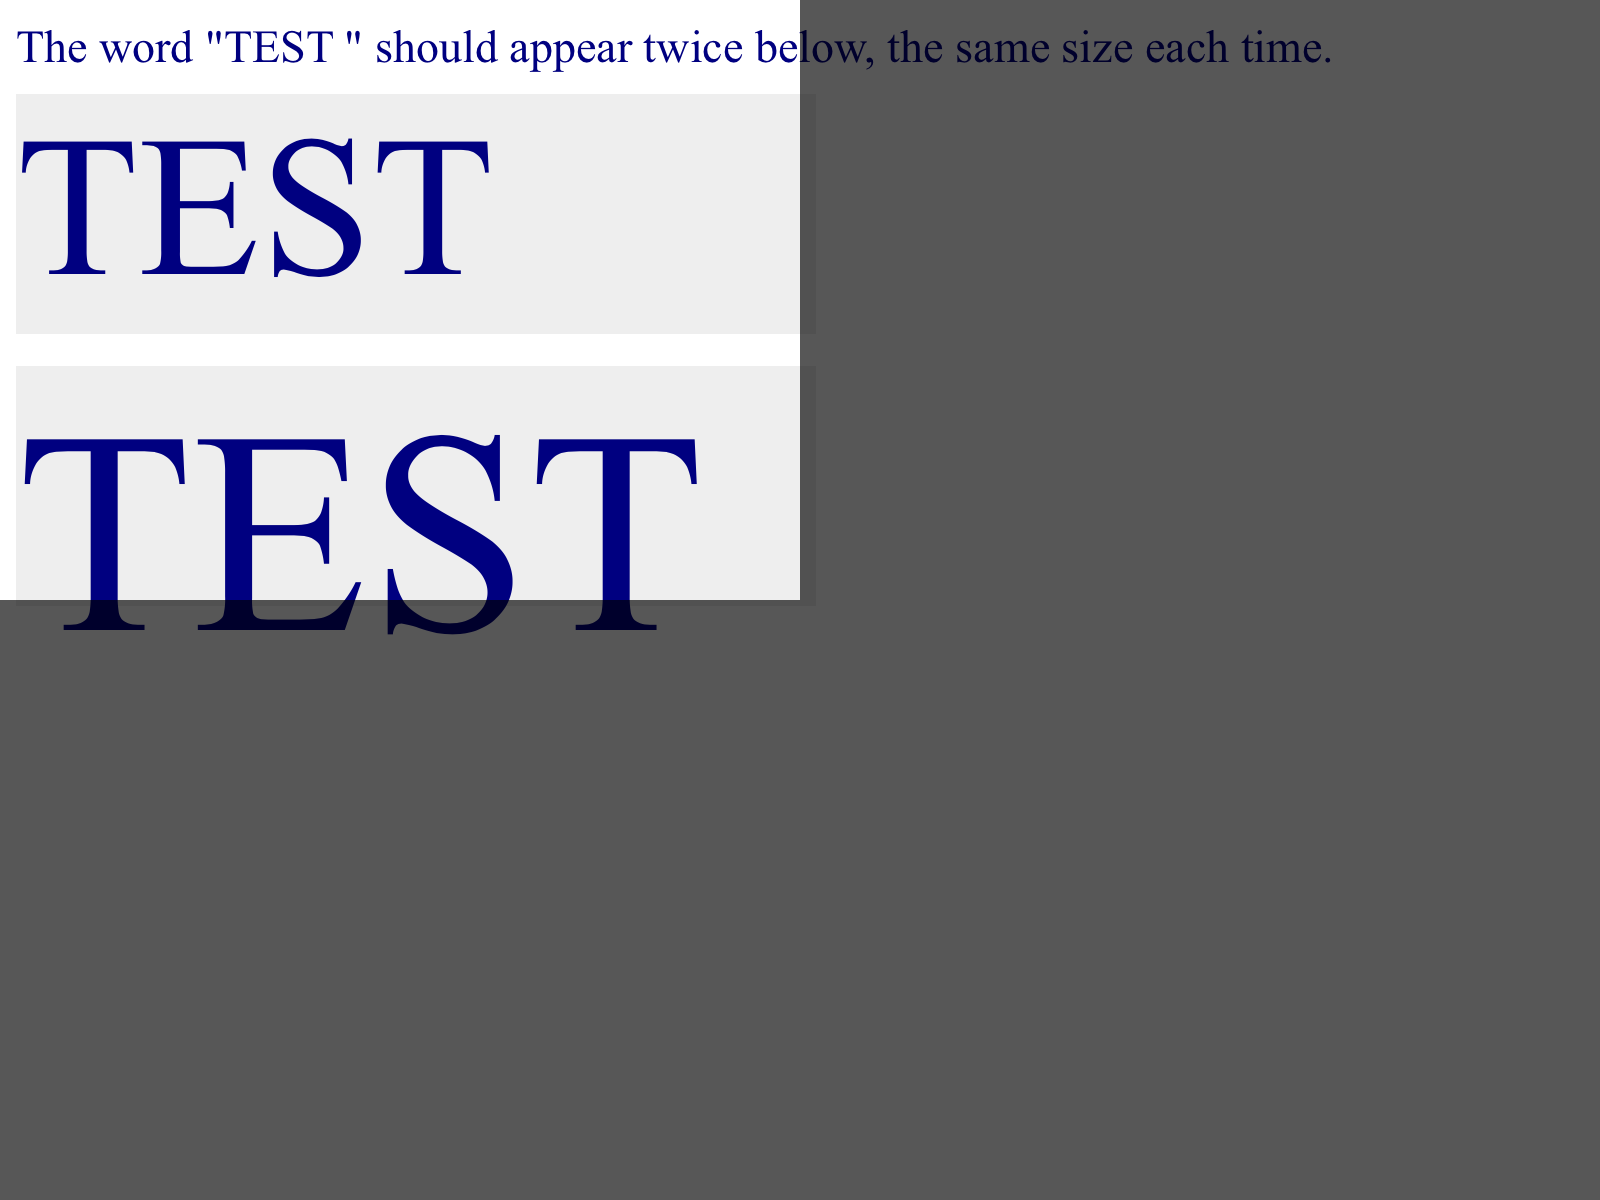
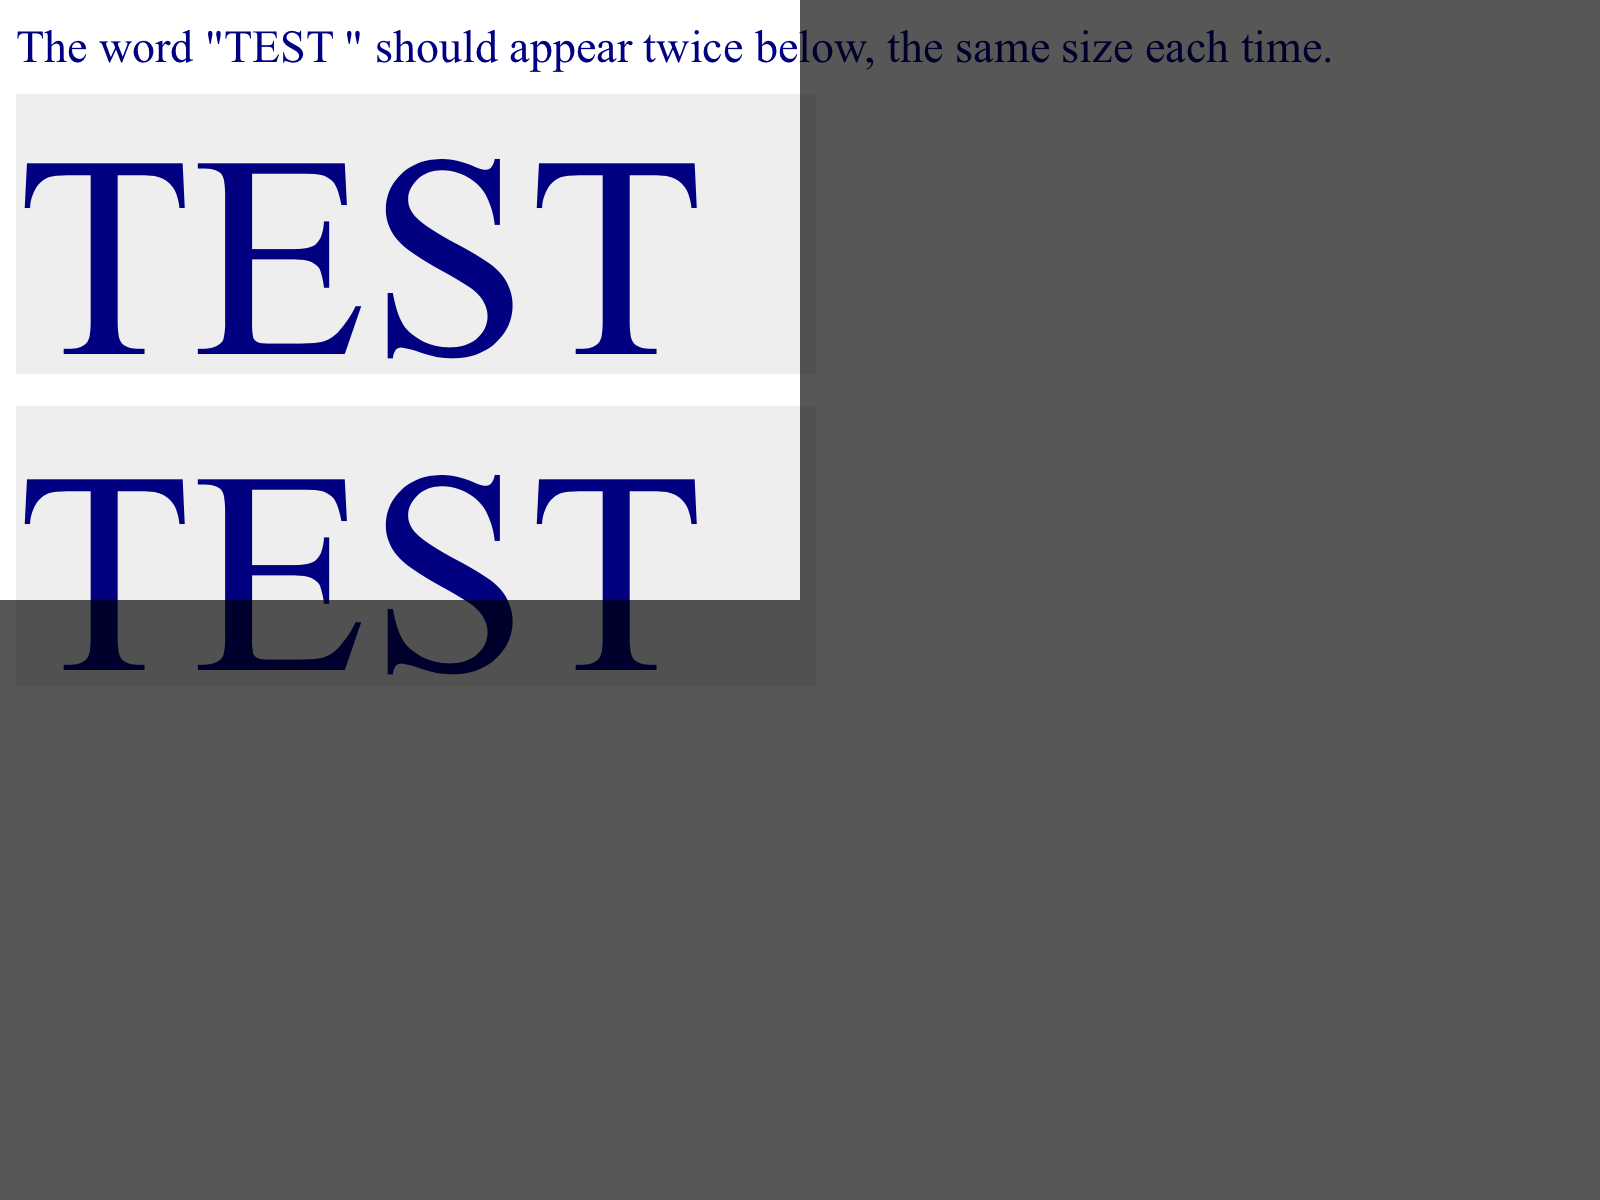
font-relative units of svg elements don't take zoom factors into account https://bugs.webkit.org/show_bug.cgi?id=199236
Reviewed by Simon Fraser.

WebKit handles zoom factor (zoom property and page zoom) differently
for SVG. WebKit multiplies internal computed CSS length values by zoom
factors for HTML elements, but for SVG elements. WebKit scales SVG
differently for zooming. Thus, internal computed font-size is zoomed
for HTML elements, but unzoomed for a SVG elements.

However, CSS length values of the root SVG element of included SVG
documents should be zoomed. font-relative units of the svg elements
didn't take zoom factor into account because font-size of them were
unzoomed. It should be zoomed.

There was another problem. Assume there was a compound HTML document
included a SVG document that included another HTML document, and
font-size property was specified to a HTML element of the outer HTML
document, and a zoom factor was applied. The computed font-size of the
HTML element was zoomed. If it was inherited to elements of the inner
HTML document, the font size of the inner HTML was zoomed twice.

font-size property should be resolved at root elements of included
documents.

Before this change, WebKit inconsitently scales texts in HTML in SVG
for text zoom. If a font-size property was specified to a element of
parent SVG document, it was unzoomed. If it was specified to a element
of inner HTML document, it was zoomed. After this change, WebKit
consitetly scales texts in HTML for text zoom even if the HTML is
included in SVG and font-size property is inherited from the parent
[…]

diff --git a/LayoutTests/svg/zoom/page/zoom-foreignObject-2.html b/LayoutTests/svg/zoom/page/zoom-foreignObject-2.html
@@ -1,0 +1,29 @@
+<!DOCTYPE html>
+<html>
+  <style>
+    :root {
+        zoom: 4;
+        font-size: 16px;
+    }
+  </style>
+  <svg width="50" height="25">
+    <foreignObject width="50" height="25">
+      <div>TEST</div>
+    </foreignObject>
+  </svg>
+  <svg width="50" height="25">
+    <foreignObject width="50" height="25">
+      <div style="font-size:16px">TEST</div>
+    </foreignObject>
+  </svg>
+  <svg width="50" height="25">
+    <foreignObject width="50" height="25">
+      <div style="font-size:inherit">TEST</div>
+    </foreignObject>
+  </svg>
+  <svg width="50" height="25" style="font-size:inherit">
+    <foreignObject width="50" height="25">
+      <div>TEST</div>
+    </foreignObject>
+  </svg>
+</html>

diff --git a/LayoutTests/svg/zoom/page/zoom-foreignObject-2-expected.html b/LayoutTests/svg/zoom/page/zoom-foreignObject-2-expected.html
@@ -1,0 +1,29 @@
+<!DOCTYPE html>
+<html>
+  <style>
+    :root {
+        zoom: 4;
+        font-size: 16px;
+    }
+  </style>
+  <svg width="50" height="25">
+    <foreignObject width="50" height="25">
+      <div>TEST</div>
+    </foreignObject>
+  </svg>
+  <svg width="50" height="25">
+    <foreignObject width="50" height="25">
+      <div>TEST</div>
+    </foreignObject>
+  </svg>
+  <svg width="50" height="25">
+    <foreignObject width="50" height="25">
+      <div>TEST</div>
+    </foreignObject>
+  </svg>
+  <svg width="50" height="25">
+    <foreignObject width="50" height="25">
+      <div>TEST</div>
+    </foreignObject>
+  </svg>
+</html>

diff --git a/LayoutTests/svg/zoom/page/em-and-font-size.html b/LayoutTests/svg/zoom/page/em-and-font-size.html
@@ -1,0 +1,19 @@
+<!DOCTYPE html>
+<style>
+  :root {
+      zoom: 5;
+      font-size: 16px;
+  }
+</style>
+
+<svg  viewBox="0 0 1 1" style="font-size:inherit;height:1em;">
+  <rect width="1" height="1"></rect>
+</svg>
+
+<svg  viewBox="0 0 1 1" style="font-size:100%;height:1em;">
+  <rect width="1" height="1"></rect>
+</svg>
+
+<svg  viewBox="0 0 1 1" style="height:1em;">
+  <rect width="1" height="1"></rect>
+</svg>

diff --git a/LayoutTests/svg/zoom/page/em-and-font-size-expected.html b/LayoutTests/svg/zoom/page/em-and-font-size-expected.html
@@ -1,0 +1,18 @@
+<!DOCTYPE html>
+<style>
+  :root {
+      zoom: 5;
+  }
+</style>
+
+<svg  viewBox="0 0 1 1" style="height:16px">
+  <rect width="1" height="1"></rect>
+</svg>
+
+<svg  viewBox="0 0 1 1" style="height:16px">
+  <rect width="1" height="1"></rect>
+</svg>
+
+<svg  viewBox="0 0 1 1" style="height:16px">
+  <rect width="1" height="1"></rect>
+</svg>

diff --git a/Source/WebCore/css/svg.css b/Source/WebCore/css/svg.css
@@ -94,3 +94,9 @@ text, tspan, tref {
 a:any-link {
     cursor: pointer;
 }
+
+/* WebKit handles zooming for SVG in a different way. font-size has to be resolved at root elements of included documents. */
+
+*|*:not(*) > svg, foreignObject > *|*:not(*) {
+    font-size: inherit;
+}

diff --git a/Source/WebCore/style/StyleBuilderState.cpp b/Source/WebCore/style/StyleBuilderState.cpp
@@ -273,7 +273,7 @@ void BuilderState::updateFontForOrientationChange()
 void BuilderState::setFontSize(FontCascadeDescription& fontDescription, float size)
 {
     fontDescription.setSpecifiedSize(size);
-    fontDescription.setComputedSize(Style::computedFontSizeFromSpecifiedSize(size, fontDescription.isAbsoluteSize(), useSVGZoomRules(), &style(), document()));
+    fontDescription.setComputedSize(Style::computedFontSizeFromSpecifiedSize(size, fontDescription.isAbsoluteSize(), false, &style(), document()));
 }
 
 CSSPropertyID BuilderState::cssPropertyID() const
